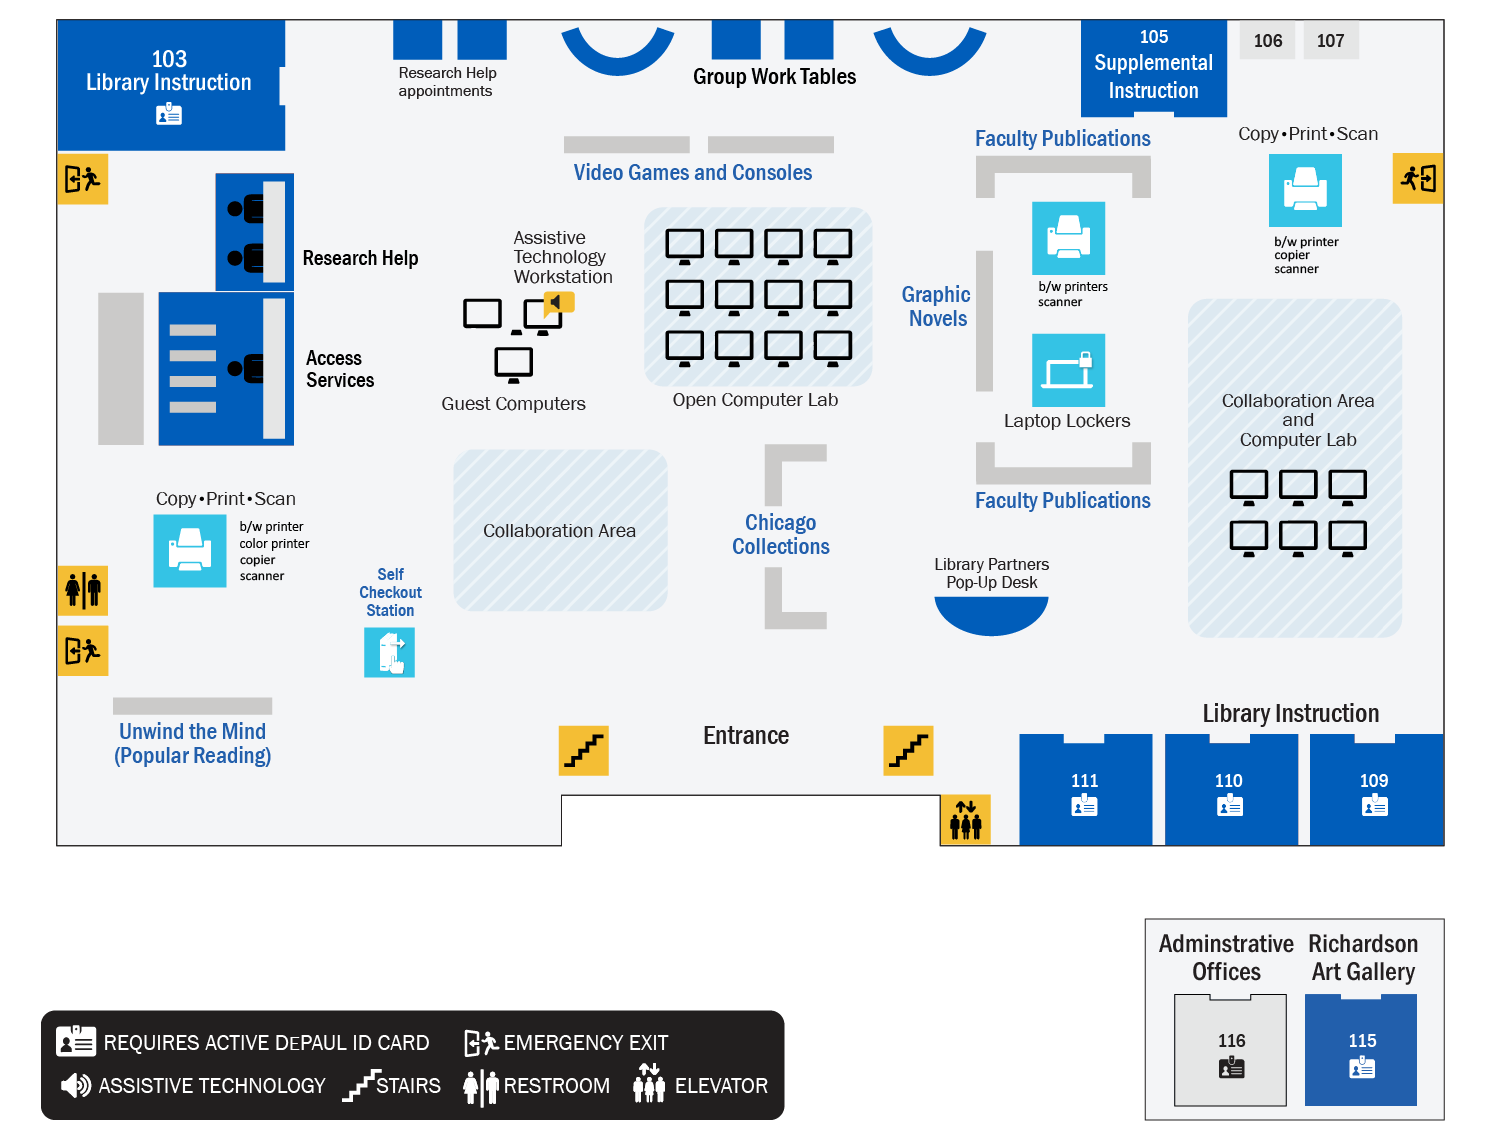
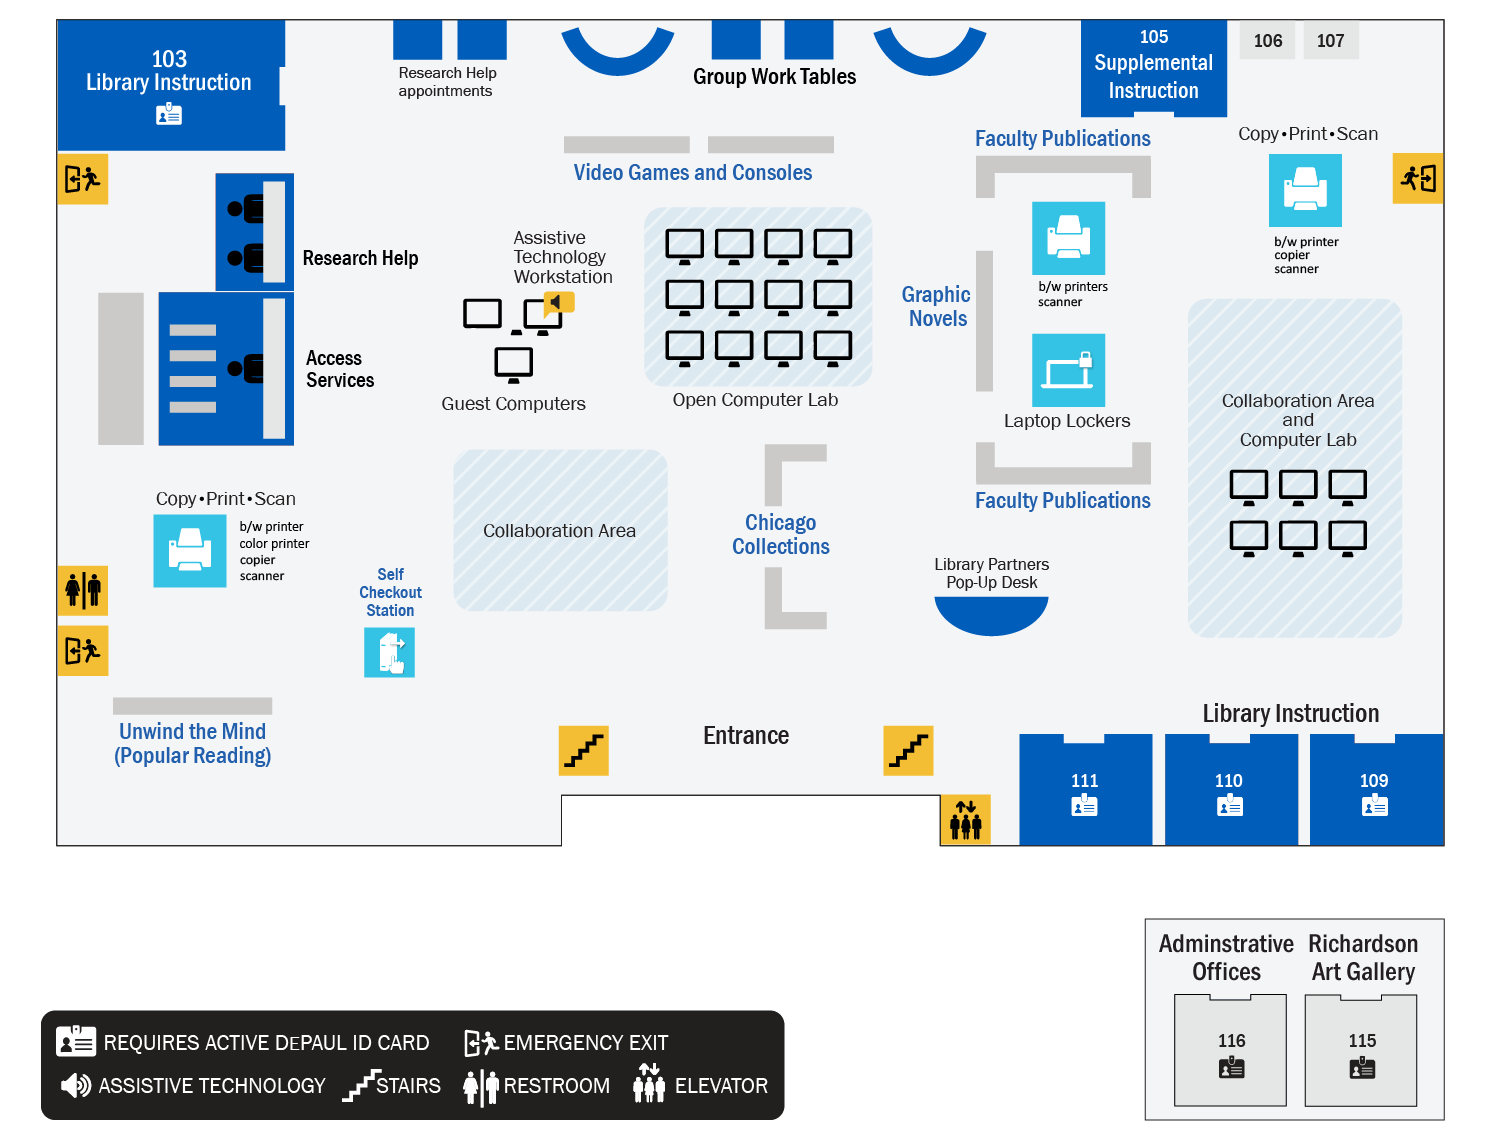
remove art gallery description as popup isn't working

Changed region(s): [[0.8587, 0.8657, 0.9507, 0.9894]]

diff --git a/js/wayfinding.js b/js/wayfinding.js
@@ -30,8 +30,7 @@
         "1_chicago": 			["", ["1_chicago.png"]],
 		"1_circulationdesk": 	["<b>Access Services</b><br/><br/>Come to Access Services to check out your items, pay a fine, or access a book on reserve for your class. We also have phone chargers, calculators, video games and consoles and more available to check out with your DePaul ID card.", ["1_circulationdesk.png"]],
 		"1_facultypublications": ["", ["1_facultypublications.png"]],
-
-		"1_gallery": 	["<b>Richardson Art Gallery</b><br/><br/>The gallery showcases student and faculty work from The Art School at DePaul.", ["1_gallery.png"]],
+		"1_gallery": 	["", ["1_gallery.png"]],
 		"1_graphicnovels": 		["", ["1_graphicnovels.png"]],
 		"guestcomputers":		["", ["1_guestcomputers.png","2_guestcomputers.png", "3_guestcomputers.png", "4_guestcomputers.png"]],
         "1_instruction": 		["<p><strong>Library Instruction</strong><br /><br />Library Instruction works with faculty to create customized research instruction sessions based on the needs of courses and assignments. The goal of the instruction program is to help students develop the critical thinking and information literacy skills necessary to conduct effective library research.</p>", ["1_instruction.png"]],

diff --git a/maps.php b/maps.php
@@ -21,8 +21,7 @@
             <area shape="rect" coords="1084,41,1231,139" href="#/" title="supplimentalinstruction" alt="Supplimental Instruction" id="1_supplemental">
             <area shape="rect" coords="1016,715,1157,854" href="#/" title="room 111" alt="Supplimental Instruction Room 111" id="1_supplemental">
             <area shape="rect" coords="65,30,282,148" href="#/" title="room103" alt="Instruction Room 103" id="1_instruction">
-            <area shape="rect" coords="1172,636,1444,802"  href="#/" title="rooms 109-11" alt="Instruction Rooms 109-110" id="1_instruction">
-            <area shape="rect" coords="1304,878,1434,1101"  href="#/" title="gallery" alt="Richardson Art Gallery" id="1_gallery">            
+            <area shape="rect" coords="1172,636,1444,802"  href="#/" title="rooms 109-11" alt="Instruction Rooms 109-110" id="1_instruction">          
             <area shape="rect" coords="151,310,385,445"  href="#/" title="accessservices" alt="Access Services" id="1_circulationdesk">
             <area shape="rect" coords="913,542,1078,648" href="#/" title="popup" alt="Pop Up Desk" id="1_popup">
             <area shape="rect" coords="220,181,428,289" href="#/" title="researchhelp" alt="Research Help Desk" id="1_researchhelpdesk">
